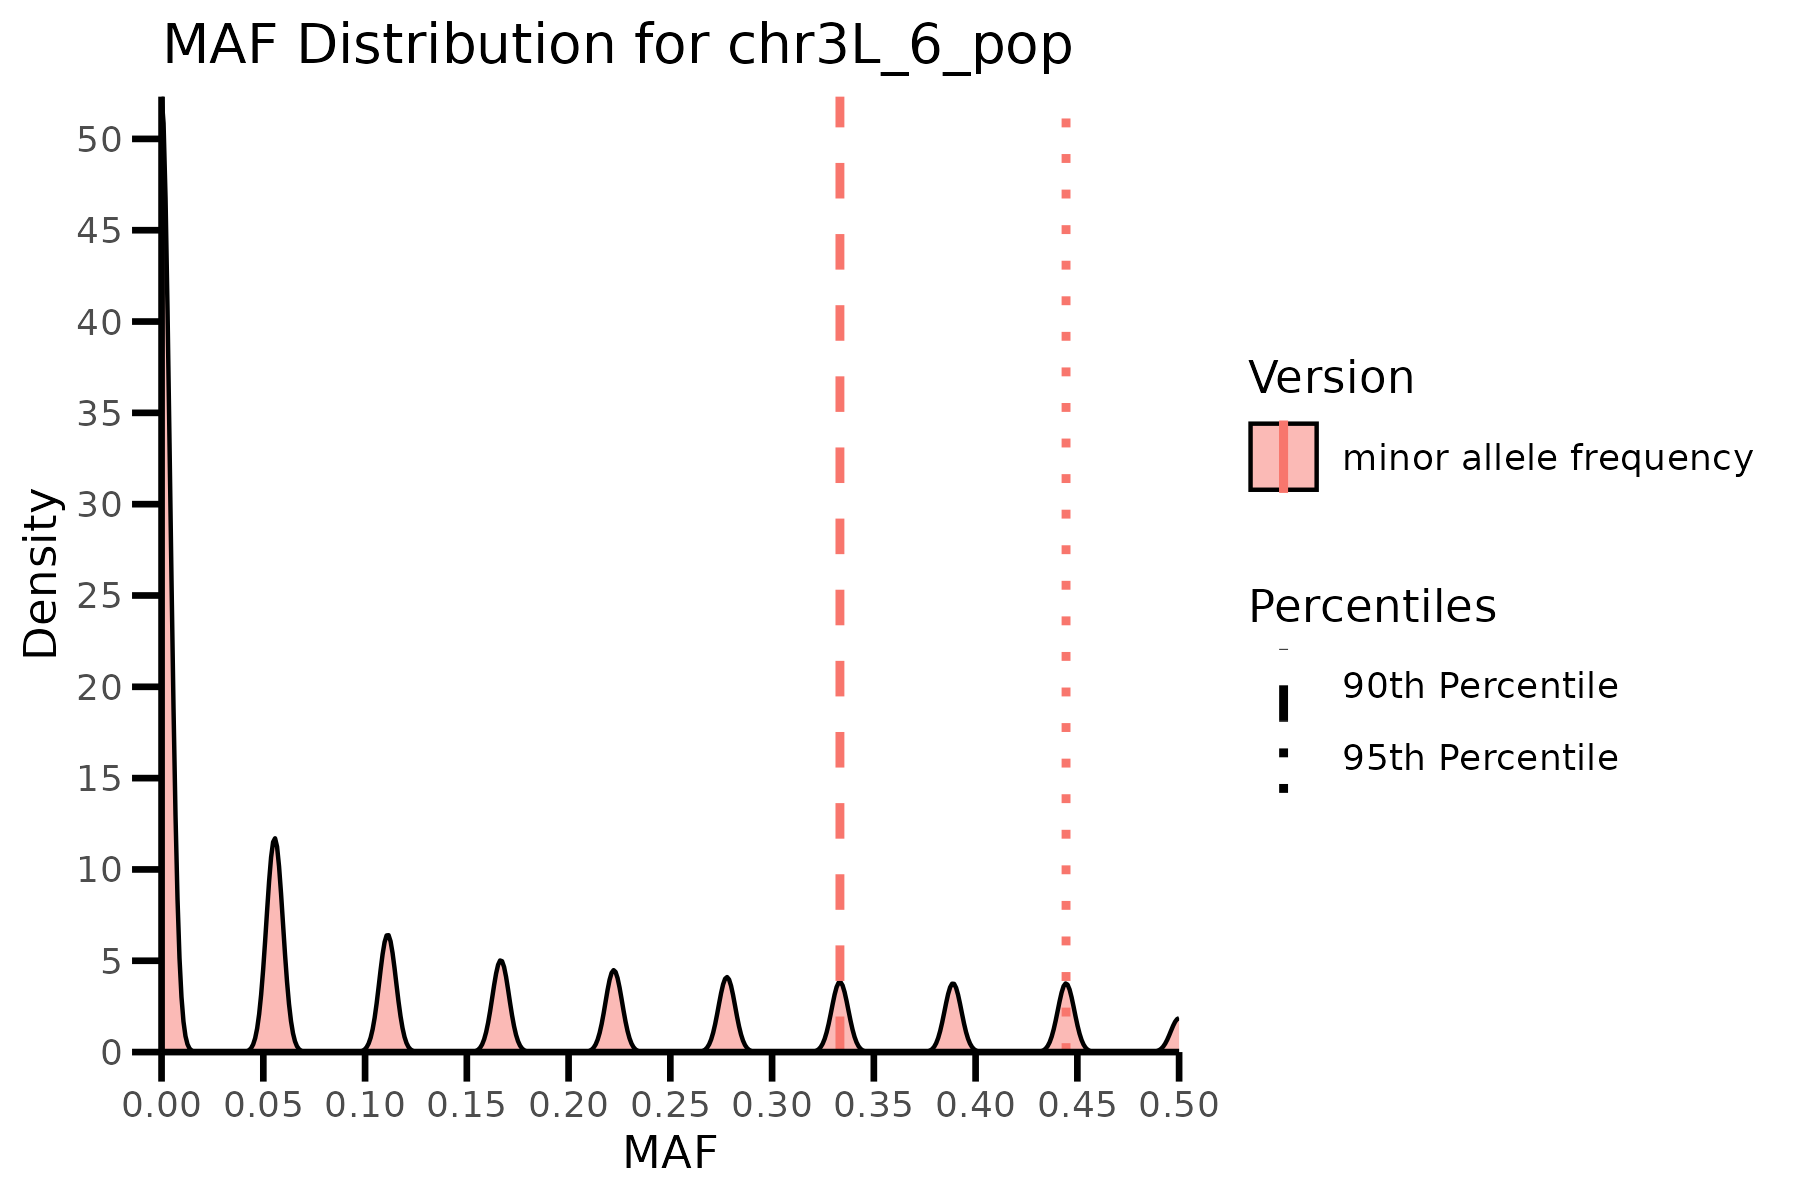
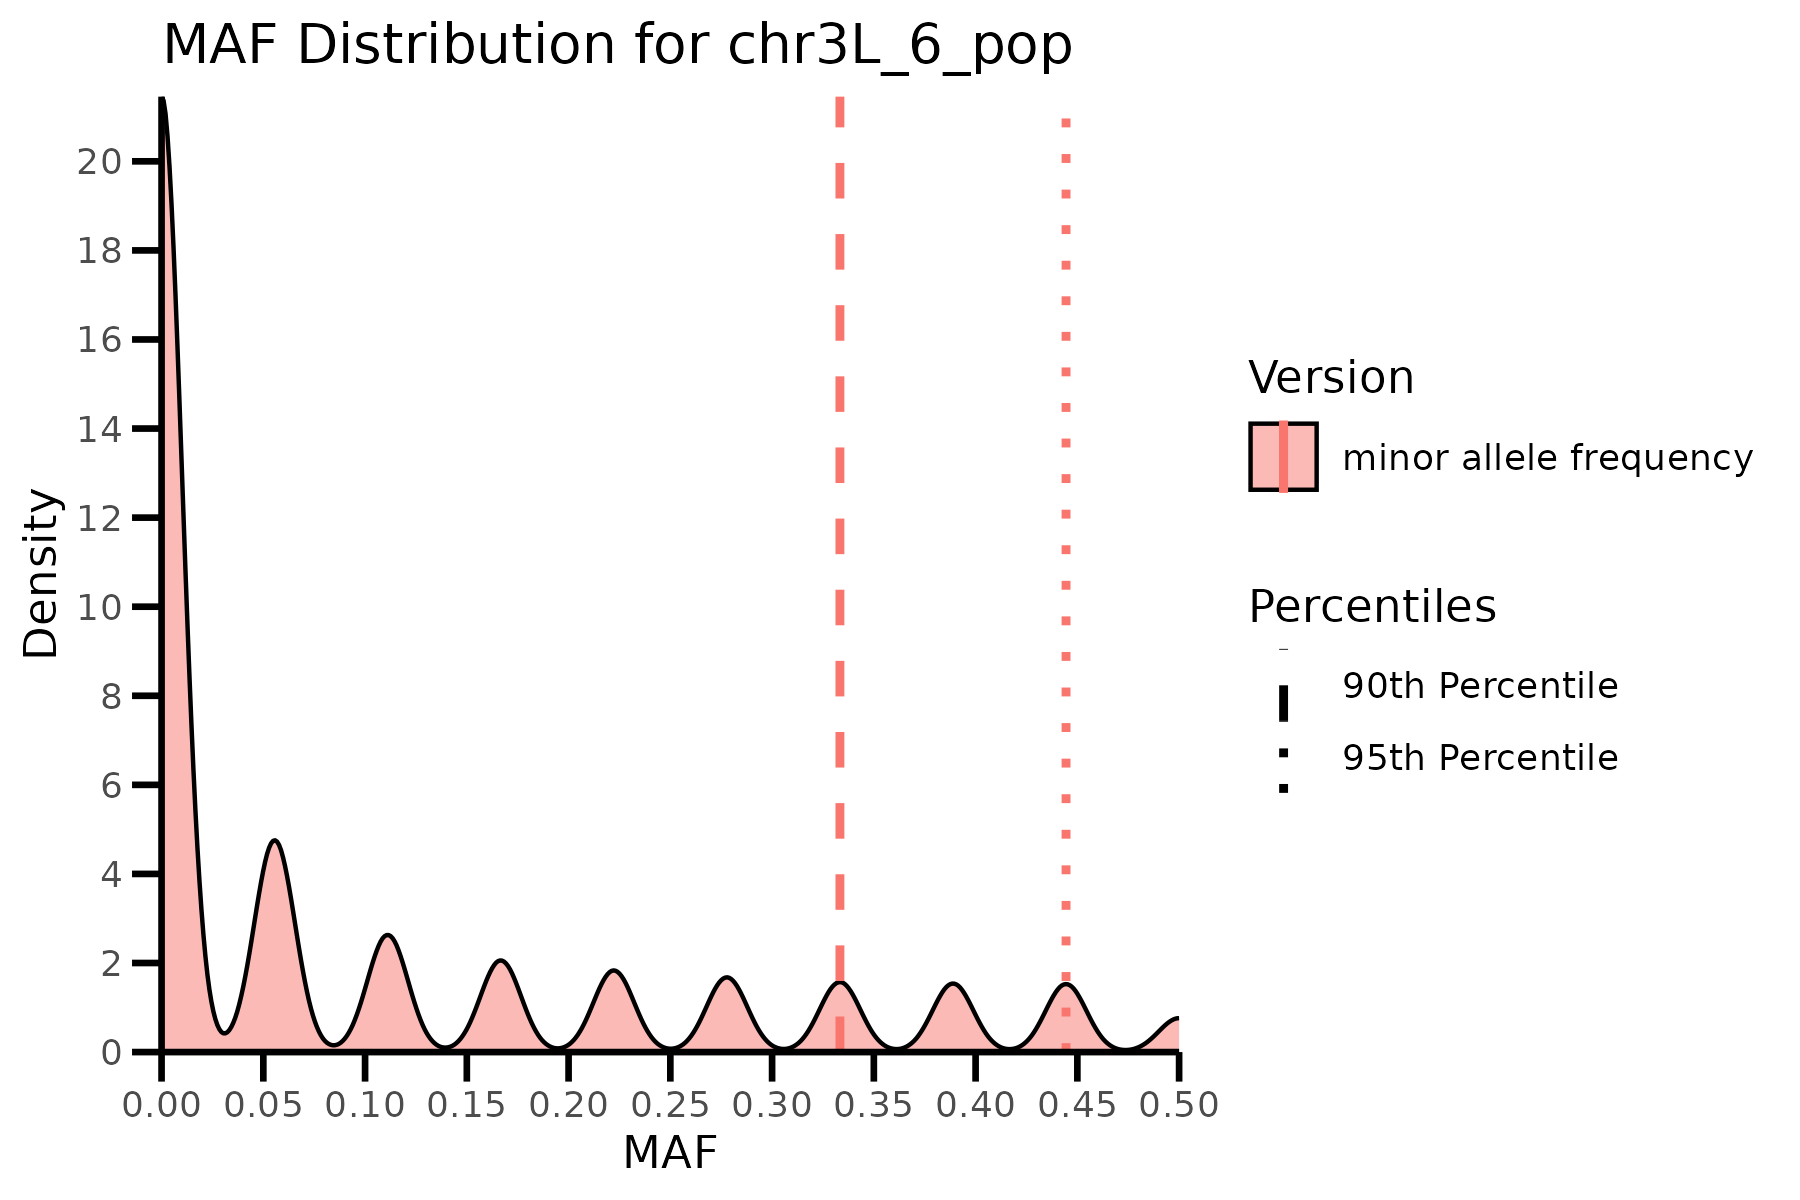
make consistent the bandwidth of distribution & reduced # of digits for floating numbers

Changed region(s): [[0.0311, 0.1542, 0.6533, 0.8942], [0.0311, 0.0925, 0.0933, 0.1542]]

diff --git a/code/calc_snp_fst_reynolds_from_ct_snp.py b/code/calc_snp_fst_reynolds_from_ct_snp.py
@@ -47,7 +47,7 @@ def Fst_reynolds(p1_afs, p2_afs, size1, size2):
     # mannually correct non-zero FST due to floating-point precision issues to 0
     if abs(snp_fst) < 1e-10:
         snp_fst = 0
-                
+
     return snp_fst
 
     # # seperately return al and al + bl for Fst calculation (weighted average of sites within windows)
@@ -74,7 +74,7 @@ def calc_snp_fst_reynolds_from_ct(count_table_pop1, count_table_pop2, out_fst):
             if not all([(1 - sum(list(x**2 for x in p1_afs.values()))) == 0, (1 - sum(list(x**2 for x in p2_afs.values()))) == 0, p1_afs == p2_afs]):
             # if p1_afs != p2_afs:    # skip sites without variation
                 snp_fst = Fst_reynolds(p1_afs, p2_afs, size1, size2)
-                f_out_fst.write(f"{snp_fst}\n")
+                f_out_fst.write(f"{snp_fst:.6f}\n") # round to 6 decimal places, so that inconsistent FST (difference < 1e-10) on the same afs due to floating-point precision issues are avoided.
 
 def main():
     usage = "usage: %prog [options] args"

diff --git a/code/calc_snp_afs_from_ct.py b/code/calc_snp_afs_from_ct.py
@@ -25,8 +25,8 @@ def calc_minor_af_from_ct(count_table_pop1, count_table_pop2, out_afs_pop1, out_
                 minor_af_pop1 = min(p1_afs[minor_af_idx], 1 - p1_afs[minor_af_idx])  # since the minor allele across populations may not be the minor allele of each population, we take the smaller one of top two allele frequencies as MAF per population
                 minor_af_pop2 = min(p2_afs[minor_af_idx], 1 - p2_afs[minor_af_idx])
 
-                f_out_afs_pop1.write(f"{minor_af_pop1}\n")
-                f_out_afs_pop2.write(f"{minor_af_pop2}\n")  
+                f_out_afs_pop1.write(f"{minor_af_pop1:.6f}\n")
+                f_out_afs_pop2.write(f"{minor_af_pop2:.6f}\n")  
 
 def main():
     usage = "usage: %prog [options] args"

diff --git a/README.md b/README.md
@@ -71,7 +71,11 @@ No input files needed for ms simulation
      ![formula of Reynolds' FST estimator](code/Reynolds_FST_formula.png "Formula of FST estimator in Reynolds et al 1983")
 2. In addition to window-FST, SNP-FST ([summary table](data/estimate_fst_snp.report)) are also calculated for simulation data (using a [python](code/calc_snp_fst_reynolds_from_ct_snp.py) and [shell](code/calc_snp_fst_reynolds_from_ct_snp.sh) script), so that the simulated FST is more comparable for SNP-FST (cannot do window FST) estimated from empirical data.
 3. In calculation of FST, we assumed that the ancestral and derived allele in population 1 and 2 are the same alleles. 
-
+4. Be careful about bandwidth used for plotting distribution! The default bandwidth of the distribution-plotting function ggplot2::geom_density() is <u>heuristically determined</u> as a function of: (1) standard deviation of the data, (2) interquartile range of the data, and (3) number of data points. 
+    * Default calculation of bw:  $\text{bw} = 0.9 \times \min(\text{sd}, \text{IQR}/1.34) \times n^{-1/5}$
+    * Since chromosome arms do differ in number of sites and standard deviation (of MAF and/or FST), the default bandwidth used is different across input data. 
+    * Specifically, a wider band width has over-smoothed distribution of chromosomes with less empirical sites (e.g., chrX) compared to chromosomes with more empirical sites (e.g., chr2R, chr3L) or much more (~4 magnitudes higher) simulated sites.
+    * For a fair comparison across distributions, I now use a fixed bandwidth bw = 0.01 across all FST distributions.
 
 ## Environment setup
 To set up the environment for this analyses, you could use conda:
